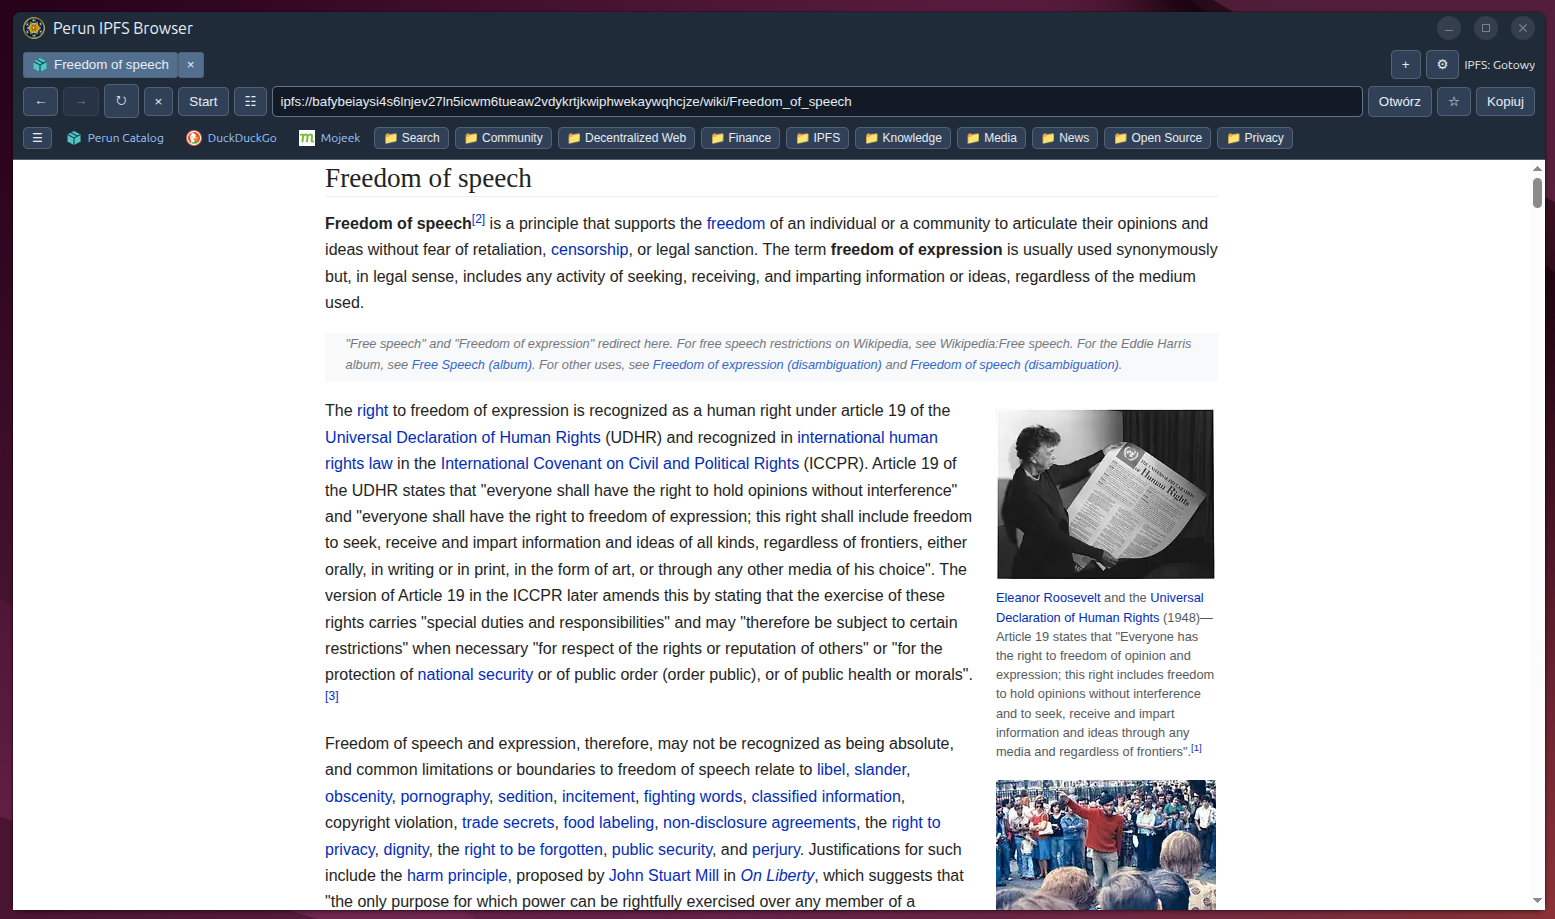
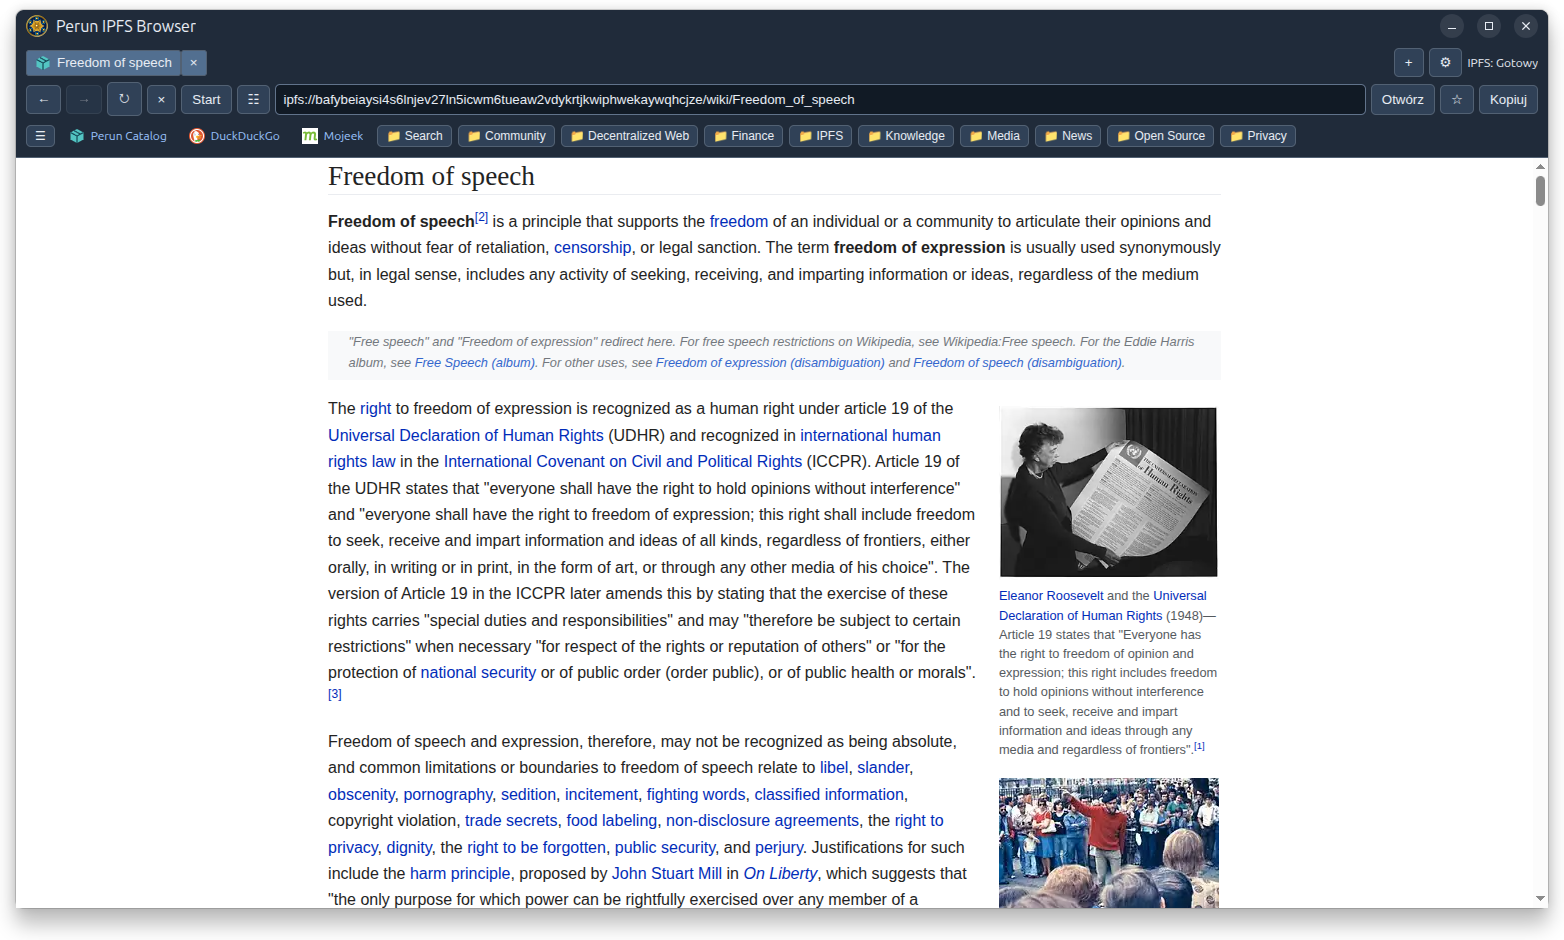
Update Perun browser screenshot

Changed region(s): [[0.0, 0.0, 1.0, 1.0]]

diff --git a/index.html b/index.html
@@ -58,8 +58,8 @@
         <img src="./perun.svg" alt="" width="340" height="340">
       </div>
     </section>
-    <img class="browser-screenshot" src="./perun-ipfs-browser.png"
-         width="1555" height="919" loading="lazy" decoding="async" lang="en"
+    <img class="browser-screenshot" src="./perun-ipfs-browser.png?v=69cc192c2bcb"
+         width="1564" height="940" loading="lazy" decoding="async" lang="en"
          alt="Perun IPFS Browser displaying the Freedom of speech article over IPFS">
     <article id="manifesto">
       <p>The internet was supposed to be free, open, and decentralized. What happened to it? Governments don't like it when they can't control us. That is why it is getting harder to find hardware and software that truly respect our privacy and do not track our every move. Large corporations also prefer to keep users under their control, collect their data, and make them dependent on their own services. Whenever an interesting solution gives people more independence, sooner or later it disappears or gets pushed to the margins (under pressure from Big Brother?).</p>
